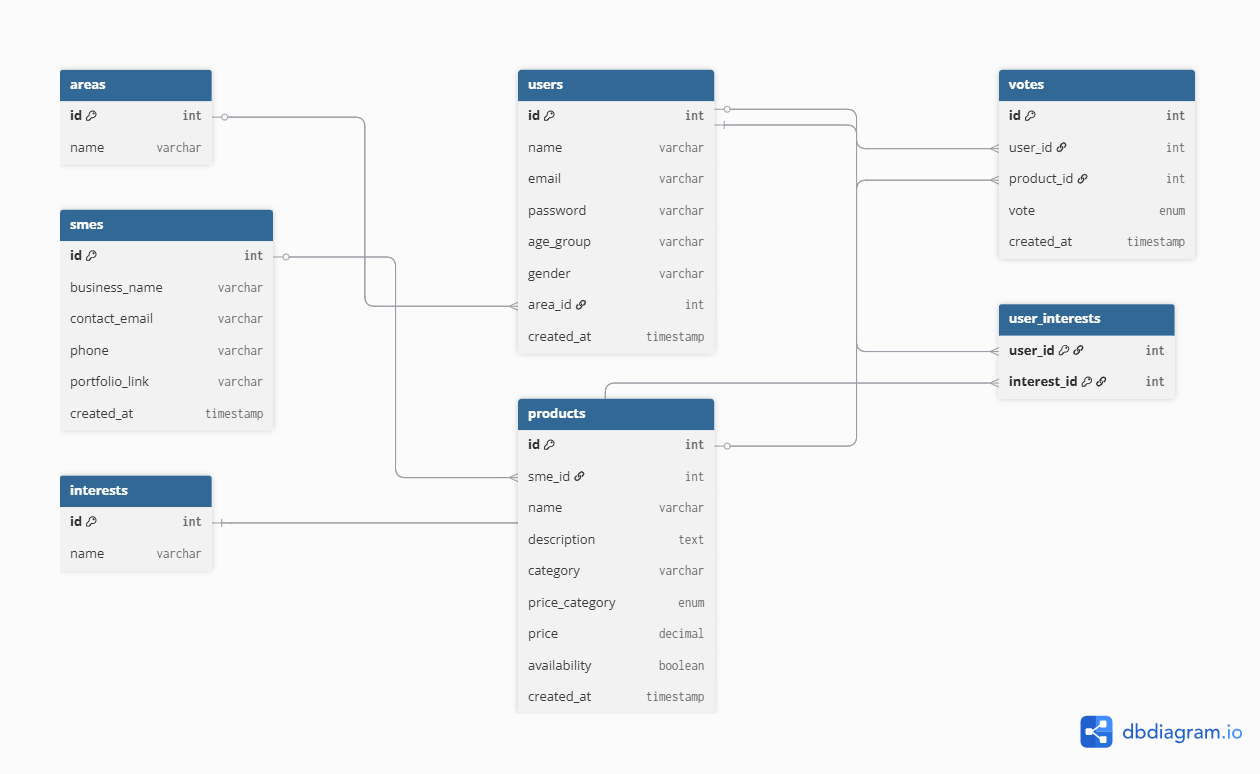
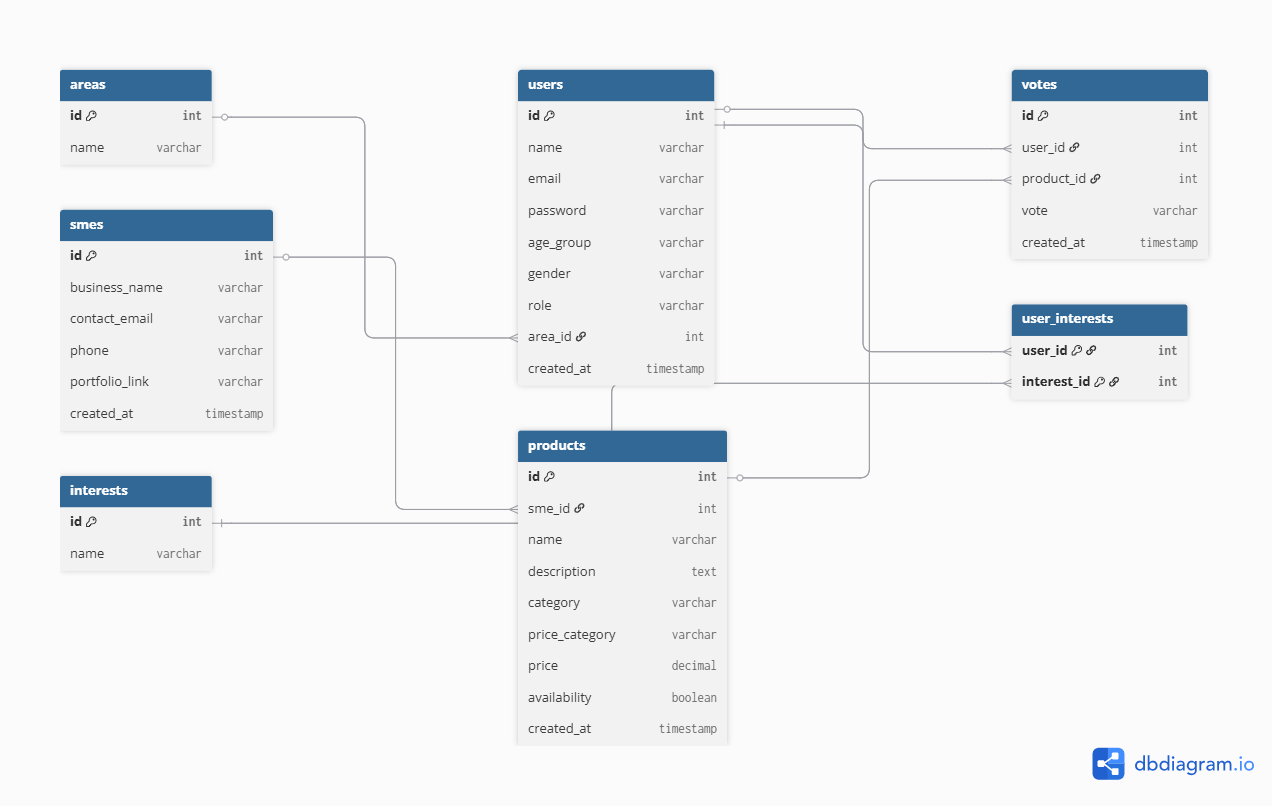
authentication based on user role

diff --git a/views/auth/register.php b/views/auth/register.php
@@ -3,26 +3,42 @@ if (session_status() === PHP_SESSION_NONE) {
     session_start();
 }
 
+require_once $_SERVER['DOCUMENT_ROOT'] . '/cultureconnect/config/database.php';
+$database = new Database();
+$conn = $database->getConnection();
+
+$areas = [];
 $error = '';
 $success = '';
 
+// Load areas for the dropdown
+try {
+    if ($conn) {
+        $stmtAreas = $conn->prepare("SELECT id, name FROM areas ORDER BY name ASC");
+        $stmtAreas->execute();
+        $areas = $stmtAreas->fetchAll(PDO::FETCH_ASSOC);
+    }
+} catch (PDOException $e) {
+    $error = "Failed to load areas.";
+}
+
 if ($_SERVER['REQUEST_METHOD'] === 'POST') {
-    require_once $_SERVER['DOCUMENT_ROOT'] . '/cultureconnect/config/database.php';
-    
     $name = trim($_POST['username'] ?? '');
     $email = trim($_POST['email'] ?? '');
     $password = $_POST['password'] ?? '';
     $confirm_password = $_POST['confirm_password'] ?? '';
+    $age_group = trim($_POST['age_group'] ?? '');
+    $gender = trim($_POST['gender'] ?? '');
+    $area_id = trim($_POST['area_id'] ?? '');
     
-    if (empty($name) || empty($email) || empty($password)) {
+    if (empty($name) || empty($email) || empty($password) || empty($age_group) || empty($gender) || empty($area_id)) {
         $error = "Please fill in all required fields.";
     } elseif ($password !== $confirm_password) {
         $error = "Passwords do not match.";
+    } elseif (!$conn) {
+        $error = "Database connection failed.";
     } else {
         try {
-            $database = new Database();
-            $conn = $database->getConnection();
-            
             // Check if email already exists
             $stmt = $conn->prepare("SELECT id FROM users WHERE email = :email");
             $stmt->bindParam(':email', $email);
@@ -32,13 +48,18 @@ if ($_SERVER['REQUEST_METHOD'] === 'POST') {
                 $error = "Email is already registered.";
             } else {
                 // Insert user
-                $sql = "INSERT INTO users (name, email, password) VALUES (:name, :email, :password)";
+                $role = 'user';
+                $sql = "INSERT INTO users (name, email, password, age_group, gender, area_id, role) VALUES (:name, :email, :password, :age_group, :gender, :area_id, :role)";
                 $stmt = $conn->prepare($sql);
                 
                 $hashed_password = password_hash($password, PASSWORD_DEFAULT);
                 $stmt->bindParam(':name', $name);
                 $stmt->bindParam(':email', $email);
                 $stmt->bindParam(':password', $hashed_password);
+                $stmt->bindParam(':age_group', $age_group);
+                $stmt->bindParam(':gender', $gender);
+                $stmt->bindParam(':area_id', $area_id);
+                $stmt->bindParam(':role', $role);
                 
                 if ($stmt->execute()) {
                     $success = "Registration successful! You can now login.";
@@ -110,7 +131,7 @@ if ($_SERVER['REQUEST_METHOD'] === 'POST') {
             font-size: 14px;
         }
 
-        .form-group input {
+        .form-group input, .form-group select {
             width: 100%;
             padding: 12px;
             border: 1px solid #bdc3c7;
@@ -118,9 +139,10 @@ if ($_SERVER['REQUEST_METHOD'] === 'POST') {
             box-sizing: border-box;
             font-size: 14px;
             transition: border-color 0.3s ease;
+            background: white;
         }
 
-        .form-group input:focus {
+        .form-group input:focus, .form-group select:focus {
             outline: none;
             border-color: #3498db;
         }
@@ -209,6 +231,41 @@ if ($_SERVER['REQUEST_METHOD'] === 'POST') {
             <div class="form-group">
                 <label for="email">Email Address</label>
                 <input type="email" id="email" name="email" placeholder="Enter your email" required>
+            </div>
+
+            <div class="form-group">
+                <label for="age_group">Age Group</label>
+                <select id="age_group" name="age_group" required>
+                    <option value="">Select Age Group</option>
+                    <option value="18-25">18-25</option>
+                    <option value="26-35">26-35</option>
+                    <option value="36-45">36-45</option>
+                    <option value="46-60">46-60</option>
+                    <option value="60+">60+</option>
+                </select>
+            </div>
+
+            <div class="form-group">
+                <label for="gender">Gender</label>
+                <select id="gender" name="gender" required>
+                    <option value="">Select Gender</option>
+                    <option value="Male">Male</option>
+                    <option value="Female">Female</option>
+                    <option value="Other">Other</option>
+                    <option value="Prefer Not to Say">Prefer Not to Say</option>
+                </select>
+            </div>
+
+            <div class="form-group">
+                <label for="area_id">Area</label>
+                <select id="area_id" name="area_id" required>
+                    <option value="">Select Area</option>
+                    <?php foreach ($areas as $area): ?>
+                        <option value="<?php echo htmlspecialchars($area['id']); ?>">
+                            <?php echo htmlspecialchars($area['name']); ?>
+                        </option>
+                    <?php endforeach; ?>
+                </select>
             </div>
 
             <div class="form-group">

diff --git a/views/auth/login.php b/views/auth/login.php
@@ -19,7 +19,7 @@ if ($_SERVER['REQUEST_METHOD'] === 'POST') {
             $conn = $database->getConnection();
             
             // Check by name or email
-            $stmt = $conn->prepare("SELECT id, name, password FROM users WHERE name = :username OR email = :username LIMIT 1");
+            $stmt = $conn->prepare("SELECT id, name, password, role FROM users WHERE name = :username OR email = :username LIMIT 1");
             $stmt->bindParam(':username', $username);
             $stmt->execute();
             
@@ -30,8 +30,13 @@ if ($_SERVER['REQUEST_METHOD'] === 'POST') {
                 if ($row['password'] === 'hashed_password' || password_verify($password, $row['password']) || $row['password'] === $password) {
                     $_SESSION['user_id'] = $row['id'];
                     $_SESSION['username'] = $row['name'];
+                    $_SESSION['role'] = $row['role'] ?? 'user';
                     
-                    header("Location: /cultureconnect/");
+                    if ($_SESSION['role'] === 'admin') {
+                        header("Location: /cultureconnect/admin-dashboard");
+                    } else {
+                        header("Location: /cultureconnect/user-dashboard");
+                    }
                     exit;
                 } else {
                     $error = "Invalid password.";

diff --git a/router.php b/router.php
@@ -19,8 +19,8 @@ $routes = [
     'login' => 'views/auth/login.php',
     'register' => 'views/auth/register.php',
     'logout' => 'views/auth/logout.php',
-    /*'admin-dashboard' => "views/admin/dashboard.php",
-    'user-dashboard' => "views/user/dashboard.php",*/
+    'admin-dashboard' => "views/admin/dashboard.php",
+    'user-dashboard' => "views/user/dashboard.php",
     'products' => 'views/products/index.php',
     'products/add' => 'views/products/add_product.php',
 ];
